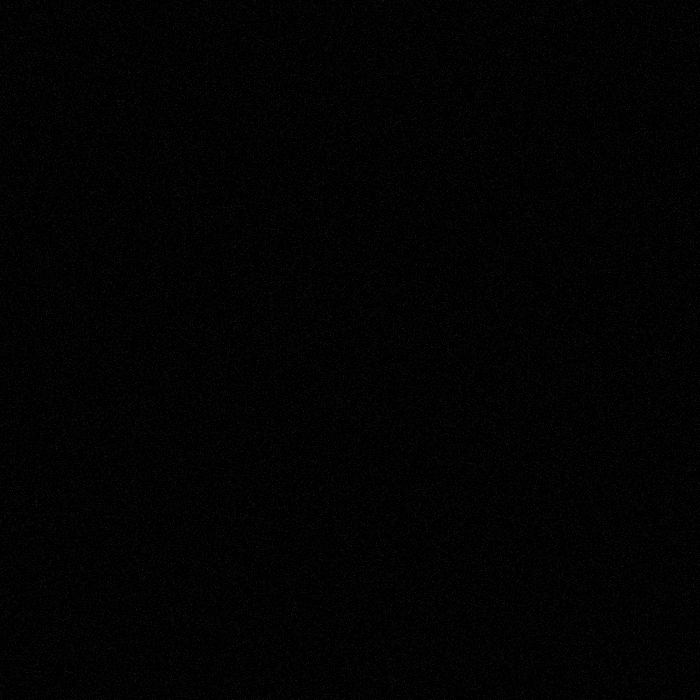
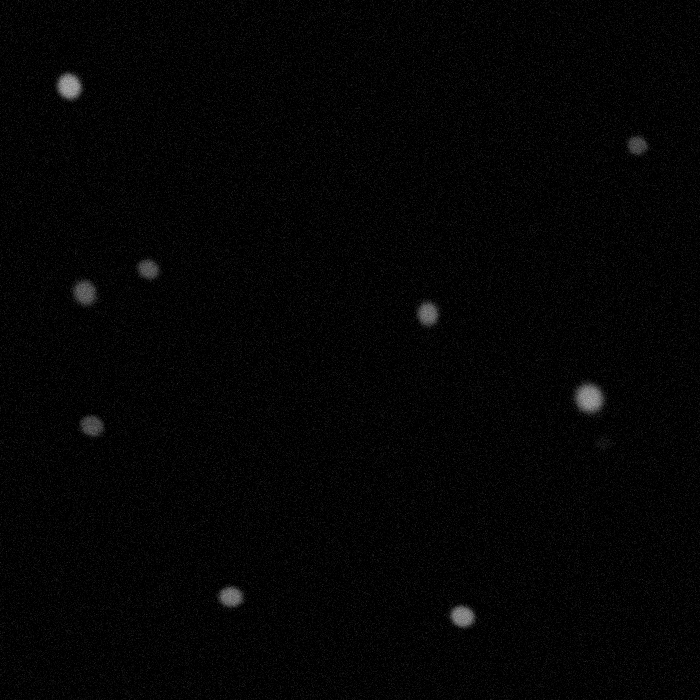
modify yolo image generate code to add noise

diff --git a/generate_image.py b/generate_image.py
@@ -10,16 +10,17 @@ import glob
 import time
 import concurrent.futures
 import shutil
+import numpy as np
 
 
 num_stars = 10
 num_BHs = 1
-num_imgaes = 1000
+num_imgaes = 3000
 height = 3072
 width = 3072
 shape = 'rect'
 mode = 'train_val'
-noise_radius = 3
+noise_radius = 10
 # img_lab
 # csv
 
@@ -104,8 +105,8 @@ def generate_image_func(angular_pixel_size_input_image):
         img = BH_stars_img(**stars_config)
         img.stars_gen()
         img.BHs_gen()
-        noise_BHs = img.add_noise(img.stars_BHs_img, radius=noise_radius)
-        tele_config['input_image'] = noise_BHs
+        # noise_BHs = img.add_noise(img.stars_BHs_img, radius=noise_radius)
+        tele_config['input_image'] = img.stars_BHs_img
         telescope_simulator = TelescopeSimulator(**tele_config)
         code = uuid.uuid4()
         if mode == 'train_val':
@@ -121,7 +122,13 @@ def generate_image_func(angular_pixel_size_input_image):
             txt_path = f"{data_dir}/labels/BHs_{code}.txt"
         # print(i)
         output_img = telescope_simulator.generate_image(show=False)
-        cv2.imwrite(bh_path, output_img)
+        output_img = output_img.astype(np.int64)
+        noisy_img = output_img + np.random.normal(loc=0, scale=noise_radius, size=(height, width))
+        noisy_img = np.where(noisy_img > 255, 255, noisy_img)
+        noisy_img = np.where(noisy_img < 0, 0, noisy_img)
+        noisy_img = noisy_img.astype(np.uint8)
+        noisy_img = cv2.resize(noisy_img, (1024, 1024))
+        cv2.imwrite(bh_path, noisy_img)
         img.txtGen(txt_path=txt_path)
 
 
@@ -130,8 +137,8 @@ def generate_image_func(angular_pixel_size_input_image):
         img = BH_stars_img(**stars_config)
         img.stars_gen()
         img.BHs_gen()
-        noise_BHs = img.add_noise(img.stars_BHs_img, radius=noise_radius)
-        tele_config['input_image'] = noise_BHs
+        # noise_BHs = img.add_noise(img.stars_BHs_img, radius=noise_radius)
+        tele_config['input_image'] = img.stars_BHs_img
         telescope_simulator = TelescopeSimulator(**tele_config)
         code = uuid.uuid4()
         if mode == 'train_val':
@@ -146,7 +153,13 @@ def generate_image_func(angular_pixel_size_input_image):
             txt_path = f"{data_dir}/labels/BHs_{code}.txt"
         # cv2.imwrite(bh_path, noise_BHs)
         output_img = telescope_simulator.generate_image(show=False)
-        cv2.imwrite(bh_path, output_img)
+        output_img = output_img.astype(np.int64)
+        noisy_img = output_img + np.random.normal(loc=0, scale=noise_radius, size=(height, width))
+        noisy_img = np.where(noisy_img > 255, 255, noisy_img)
+        noisy_img = np.where(noisy_img < 0, 0, noisy_img)
+        noisy_img = noisy_img.astype(np.uint8)
+        noisy_img = cv2.resize(noisy_img, (1024, 1024))
+        cv2.imwrite(bh_path, noisy_img)
         img.txtGen(txt_path=txt_path)
 
 
@@ -156,18 +169,18 @@ def generate_image_func(angular_pixel_size_input_image):
 
 
 
-    img_lst = glob.glob(f'{data_dir}/*/*/*.png')
+    # img_lst = glob.glob(f'{data_dir}/*/*/*.png')
 
 
-    for img_name in tqdm(img_lst):
-        img = cv2.imread(img_name, cv2.IMREAD_GRAYSCALE)
-        img_resize = cv2.resize(img, (1024, 1024))
-        cv2.imwrite(img_name, img_resize)
+    # for img_name in tqdm(img_lst):
+    #     img = cv2.imread(img_name, cv2.IMREAD_GRAYSCALE)
+    #     img_resize = cv2.resize(img, (1024, 1024))
+    #     cv2.imwrite(img_name, img_resize)
 
 
 
 if __name__ == '__main__':
-    angular_pixel_size_input_images = [6e-4, 7e-4, 8e-4, 9e-4, 10e-4, 11e-4, 12e-4, 13e-4]
+    angular_pixel_size_input_images = np.arange(5e-5, 2e-4, 1e-5)
     t1 = time.perf_counter()
     with concurrent.futures.ProcessPoolExecutor() as executor:
         executor.map(generate_image_func, angular_pixel_size_input_images)
@@ -175,3 +188,4 @@ if __name__ == '__main__':
     with open('tele_datasets/records.txt', 'a') as f:
         for i in angular_pixel_size_input_images:
             f.write(f'{i:2e}\n')
+

diff --git a/stars.py b/stars.py
@@ -106,6 +106,7 @@ class BH_stars_img():
         Returns:
             _type_: _description_
         """        
+        img = img.astype(np.int64)
         noisy_img = img + np.random.normal(loc=0, scale=radius, size=(self.height, self.width))
         noisy_img = np.where(noisy_img > 255, 255, noisy_img)
         noisy_img = np.where(noisy_img < 0, 0, noisy_img)
@@ -249,15 +250,15 @@ class BH_stars_img():
 if __name__ == '__main__':
 
     img_arr = cv2.imread('tele_datasets/224/20240108150459_4eae584618014ddca128ea99277295e2.png', 0)
-    img = BH_stars_img(BHs_path='tele_datasets/224/', BHs=img_arr, num_stars=0, num_BHs=1, stars_lower_size=25, stars_upper_size=35,
-                       BHS_lower_size=256, BH_upper_size=257, height=700, width=700, bg_color=0, shape='rect')
+    img = BH_stars_img(BHs_path='tele_datasets/224/', BHs=img_arr, num_stars=10, num_BHs=1, stars_lower_size=30, stars_upper_size=50,
+                       BHS_lower_size=30, BH_upper_size=50, height=700, width=700, bg_color=0, shape='rect')
     img.stars_gen()
     img.save('stars/stars.png')
-    noise_stars = img.add_noise(img.stars_BHs_img, radius=7)
+    noise_stars = img.add_noise(img.stars_BHs_img, radius=10)
     cv2.imwrite('stars/noisy_stars.png', noise_stars)
     img.BHs_gen()
     img.save('stars/BHs.png')
-    noise_BHs = img.add_noise(img.stars_BHs_img, radius=7)
+    noise_BHs = img.add_noise(img.stars_BHs_img, radius=10)
     cv2.imwrite('stars/noisy_BHs.png', noise_BHs)
     # plt.imshow(img.stars_BHs_img, cmap='gray')
     # plt.show()
